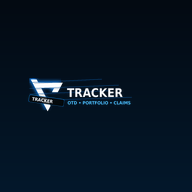
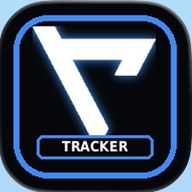
Add files via upload

diff --git a/app.js b/app.js
@@ -841,7 +841,7 @@ async function findDatesInApp(){
  const team=teamInput.value.trim();
  if(!player){alert('Enter the player name first.');return;}
  if(!season){alert('Enter the season or year first. Example: 2025-26 or 2025');return;}
- findDatesButton.disabled=true;
+ if(findDatesButton)findDatesButton.disabled=true;
  setAiStatus('Searching for official game/event dates… this can take a little bit.','loading');
  try{
    const response=await fetch('/api/find-dates',{
@@ -868,7 +868,7 @@ async function findDatesInApp(){
    setAiStatus(err.message,'error');
    alert(err.message);
  }finally{
-   findDatesButton.disabled=false;
+   if(findDatesButton)findDatesButton.disabled=false;
  }
 }
 function importBulkClaims(){
@@ -920,7 +920,7 @@ function closeStatsEditor(){
 }
 
 function openModal(id=null){
- const c=id?COLLECTION.find(x=>x.id===id):null;cardModal.classList.add('open');cardModal.setAttribute('aria-hidden','false');modalTitle.textContent=c?'Edit card':'Add card';cardId.value=c?.id||'';playerInput.value=c?.player||'';sportInput.value=c?.sport||'NFL';const type=c?.cardType||'otd';cardTypeCurrent.checked=type==='current';cardTypeOtd.checked=type!=='current';updateCardTypeUI();rarityInput.value=c?.rarity||'Rare';multiplierInput.value=c?.multiplier||rarityMultipliers[rarityInput.value]||1;marketValueInput.value=c?.marketValue||'';favoriteInput.checked=!!c?.favorite;notesInput.value=c?.notes||'';seasonInput.value=c?.season||'';teamInput.value=c?.team||'';dateOnlyPasteInput.value='';claimRows.innerHTML='';
+ const c=id?COLLECTION.find(x=>x.id===id):null;cardModal.classList.add('open');cardModal.setAttribute('aria-hidden','false');modalTitle.textContent=c?'Edit card':'Add card';cardId.value=c?.id||'';playerInput.value=c?.player||'';sportInput.value=c?.sport||'NFL';const type=c?.cardType||'otd';cardTypeCurrent.checked=type==='current';cardTypeOtd.checked=type!=='current';updateCardTypeUI();rarityInput.value=c?.rarity||'Rare';multiplierInput.value=c?.multiplier||rarityMultipliers[rarityInput.value]||1;marketValueInput.value=c?.marketValue||'';favoriteInput.checked=!!c?.favorite;notesInput.value=c?.notes||'';seasonInput.value=c?.season||'';teamInput.value=c?.team||'';if(dateOnlyPasteInput)dateOnlyPasteInput.value='';claimRows.innerHTML='';
  const multiplier=Number(c?.multiplier||multiplierInput.value||1);(c?.claims||[]).sort((a,b)=>a.date.localeCompare(b.date)).forEach(x=>addClaimEntry(x.date,Number(x.base||0),x));
  updateClaimEmptyState();archiveButton.style.display=c?'block':'none';archiveButton.textContent=c?.active===false?'Restore':'Archive';
 }
@@ -942,7 +942,7 @@ function collectClaimEntries(multiplier,cardType){
 }
 
 function exportData(){
-  const payload={version:44,collection:COLLECTION,claimState,raxBalance};
+  const payload={version:45,collection:COLLECTION,claimState,raxBalance};
   const blob=new Blob([JSON.stringify(payload,null,2)],{type:'application/json'});
   const url=URL.createObjectURL(blob);
   const a=document.createElement('a');
@@ -1027,7 +1027,7 @@ rarityInput.addEventListener('change',()=>{
  refreshClaimRowTotals();
 });
 cardForm.addEventListener('submit',e=>{e.preventDefault();try{const id=cardId.value||playerInput.value.toLowerCase().replace(/[^a-z0-9]+/g,'-');const existing=COLLECTION.find(x=>x.id===id);const multiplier=Number(multiplierInput.value);const cardType=activeCardType();const obj={id,player:playerInput.value.trim(),sport:sportInput.value,cardType,rarity:rarityInput.value,multiplier,booster:cardType==='current'?collectBoosterSettings():defaultBooster(),marketValue:Number(marketValueInput.value||0),favorite:favoriteInput.checked,notes:notesInput.value.trim(),season:seasonInput.value.trim(),team:teamInput.value.trim(),active:existing?.active!==false,claims:collectClaimEntries(multiplier,cardType)};if(existing)Object.assign(existing,obj);else COLLECTION.push(obj);saveCollection();closeModalFn();renderAll();showToast('Collection updated')}catch(err){alert(err.message)}});
-addClaimRowButton.addEventListener('click',()=>addClaimEntry());addFiveClaimsButton.addEventListener('click',()=>{for(let i=0;i<5;i++)addClaimEntry();});importClaimsButton.addEventListener('click',importBulkClaims);if(importDateOnlyButton)if(importDateOnlyButton)importDateOnlyButton.addEventListener('click',importDateOnlyList);if(findDatesButton)if(findDatesButton)if(findDatesButton)findDatesButton.addEventListener('click',findDatesInApp);if(copyDatePromptButton)if(copyDatePromptButton)copyDatePromptButton.addEventListener('click',copyDatePrompt);clearDatePasteButton.addEventListener('click',()=>{dateOnlyPasteInput.value='';});claimRows.addEventListener('click',e=>{const statsBtn=e.target.closest('.stats-row-button');if(statsBtn){openStatsEditor(statsBtn.closest('.claim-entry-row'));return;}const btn=e.target.closest('.remove-claim-button');if(btn){btn.closest('.claim-entry-row').remove();updateClaimEmptyState()}});
+addClaimRowButton.addEventListener('click',()=>addClaimEntry());addFiveClaimsButton.addEventListener('click',()=>{for(let i=0;i<5;i++)addClaimEntry();});importClaimsButton.addEventListener('click',importBulkClaims);if(importDateOnlyButton)importDateOnlyButton.addEventListener('click',importDateOnlyList);if(findDatesButton)findDatesButton.addEventListener('click',findDatesInApp);if(copyDatePromptButton)copyDatePromptButton.addEventListener('click',copyDatePrompt);if(clearDatePasteButton)clearDatePasteButton.addEventListener('click',()=>{if(dateOnlyPasteInput)dateOnlyPasteInput.value='';});claimRows.addEventListener('click',e=>{const statsBtn=e.target.closest('.stats-row-button');if(statsBtn){openStatsEditor(statsBtn.closest('.claim-entry-row'));return;}const btn=e.target.closest('.remove-claim-button');if(btn){btn.closest('.claim-entry-row').remove();updateClaimEmptyState()}});
 archiveButton.addEventListener('click',()=>{const c=COLLECTION.find(x=>x.id===cardId.value);if(c){c.active=c.active===false;saveCollection();closeModalFn();renderAll();showToast(c.active?'Card restored':'Card archived')}});
 exportButton.addEventListener('click',exportData);sidebarBackup.addEventListener('click',exportData);importInput.addEventListener('change',e=>{if(e.target.files[0])importData(e.target.files[0])});sidebarImport.addEventListener('change',e=>{if(e.target.files[0])importData(e.target.files[0])});editBalanceButton.addEventListener('click',()=>{balanceModal.classList.add('open');raxBalanceInput.value=raxBalance});closeBalanceModal.addEventListener('click',()=>balanceModal.classList.remove('open'));balanceModal.addEventListener('click',e=>{if(e.target===balanceModal)balanceModal.classList.remove('open')});balanceForm.addEventListener('submit',e=>{e.preventDefault();raxBalance=Number(raxBalanceInput.value||0);localStorage.setItem('realTrackerPublicRaxBalanceV1',raxBalance);scheduleCloudSave();balanceModal.classList.remove('open');renderAll();showToast('RAX balance updated')});
 

diff --git a/styles.css b/styles.css
@@ -1508,3 +1508,55 @@ html, body {
 @media(max-width:520px){
   .premium-claim-row,.otd-mode .premium-claim-row{grid-template-columns:1fr!important}
 }
+
+/* REAL TRACKER 4.5 hard click fix + clean date rows */
+.modal:not(.open){pointer-events:none!important}
+.modal.open{pointer-events:auto!important}
+.ai-date-section{display:none!important}
+.claim-column-labels.learning-labels{display:none!important}
+.clean-claim-editor .claim-help-steps{
+  display:grid;
+  grid-template-columns:repeat(3,minmax(0,1fr));
+  gap:10px;
+  margin:12px 0;
+}
+.clean-claim-editor .claim-help-steps div{
+  display:flex;align-items:center;gap:9px;
+  border:1px solid rgba(86,199,255,.17);
+  border-radius:14px;background:#03070d;padding:10px;
+}
+.clean-claim-editor .claim-help-steps strong{
+  width:24px;height:24px;display:grid;place-items:center;border-radius:999px;
+  background:linear-gradient(135deg,#138cff,#56c7ff);color:#001422;font-size:12px;
+}
+.clean-claim-editor .claim-help-steps span{color:#d8e9f7;font-size:12px;font-weight:850;line-height:1.25}
+.premium-claim-row,.otd-mode .premium-claim-row{
+  display:grid!important;
+  grid-template-columns:minmax(170px,1fr) minmax(120px,.7fr) minmax(130px,.75fr) minmax(104px,.58fr) 42px!important;
+  gap:10px!important;align-items:end!important;padding:14px!important;border-radius:18px!important;
+  background:radial-gradient(circle at 0 0,rgba(86,199,255,.08),transparent 35%),linear-gradient(180deg,rgba(7,19,31,.96),rgba(2,6,10,.99))!important;
+  border:1px solid rgba(86,199,255,.18)!important;
+}
+.otd-mode .premium-claim-row{grid-template-columns:minmax(170px,1fr) minmax(120px,.7fr) minmax(130px,.75fr) 42px!important}
+.claim-field{display:grid!important;gap:5px!important}
+.claim-field span{font-size:10px!important;color:#9eb7cc!important;text-transform:uppercase!important;letter-spacing:.08em!important;font-weight:950!important}
+.claim-field input{min-height:46px!important;font-size:15px!important;border-radius:14px!important;border:1px solid rgba(86,199,255,.17)!important;background:#02060b!important;color:#fff!important}
+.claim-total-output{background:#071722!important;border-color:rgba(86,199,255,.28)!important;color:#e7f8ff!important;font-weight:950!important}
+.otd-mode .stats-row-button{display:none!important}
+.clean-bulk-import{margin-top:14px!important;border:1px solid rgba(86,199,255,.14)!important;border-radius:16px!important;background:#03070d!important;overflow:hidden!important}
+.clean-bulk-import summary{cursor:pointer!important;color:#e7f8ff!important;font-size:13px!important;font-weight:950!important;padding:13px 14px!important;list-style:none!important}
+.clean-bulk-import summary::-webkit-details-marker{display:none!important}
+.clean-bulk-import summary::after{content:'＋';float:right;color:#56c7ff}
+.clean-bulk-import[open] summary::after{content:'−'}
+.clean-bulk-import label{display:grid!important;gap:8px!important;padding:0 14px 12px!important;color:#9eb7cc!important;font-size:12px!important}
+.clean-bulk-import textarea{border:1px solid rgba(86,199,255,.17)!important;border-radius:14px!important;background:#02060b!important;color:#fff!important;padding:12px!important}
+.clean-bulk-import .import-claims-button{margin:0 14px 14px!important}
+@media(max-width:860px){
+  .clean-claim-editor .claim-help-steps{grid-template-columns:1fr}
+  .premium-claim-row,.otd-mode .premium-claim-row{grid-template-columns:1fr 1fr!important}
+  .date-field{grid-column:1/-1}
+  .stats-row-button,.remove-claim-button{width:100%!important}
+}
+@media(max-width:520px){
+  .premium-claim-row,.otd-mode .premium-claim-row{grid-template-columns:1fr!important}
+}

diff --git a/index.html b/index.html
@@ -8,10 +8,12 @@
   <meta name="apple-mobile-web-app-status-bar-style" content="black-translucent" />
   <meta name="apple-mobile-web-app-title" content="REAL TRACKER" />
   <link rel="manifest" href="manifest.webmanifest" />
-  <link rel="icon" type="image/png" sizes="192x192" href="icon-192.png?v=44" />
-  <link rel="apple-touch-icon" href="icon-192.png?v=44" />
-      <link rel="stylesheet" href="styles.css" />
-  <title>REAL TRACKER 4.4</title>
+  <link rel="icon" type="image/x-icon" href="favicon.ico?v=45" />
+  <link rel="icon" type="image/png" sizes="32x32" href="favicon-32.png?v=45" />
+  <link rel="icon" type="image/png" sizes="192x192" href="icon-192.png?v=45" />
+  <link rel="apple-touch-icon" href="icon-192.png?v=45" />
+          <link rel="stylesheet" href="styles.css?v=45" />
+  <title>REAL TRACKER 4.5</title>
 </head>
 <body>
 <div id="appShell">
@@ -326,5 +328,5 @@ Sep 22, 140"></textarea>
 </div>
 
 <div class="modal" id="balanceModal" aria-hidden="true"><div class="modal-sheet compact-sheet"><div class="modal-handle"></div><div class="modal-head"><h2>RAX balance</h2><button id="closeBalanceModal" class="icon-button">×</button></div><form id="balanceForm"><label>Current available RAX<input id="raxBalanceInput" type="number" min="0" step="1" /></label><button type="submit" class="save-button full-button">Save balance</button></form></div></div>
-<div class="toast" id="toast"></div><div id="bootError" class="boot-error" hidden></div><script src="https://cdn.jsdelivr.net/npm/@supabase/supabase-js@2"></script><script src="app.js"></script>
+<div class="toast" id="toast"></div><div id="bootError" class="boot-error" hidden></div><script src="https://cdn.jsdelivr.net/npm/@supabase/supabase-js@2"></script><script src="app.js?v=45"></script>
 </body></html>

diff --git a/sw.js b/sw.js
@@ -1,1 +1,1 @@
-const CACHE='real-tracker-44-click-fix-clean-ui-v1';const ASSETS=['./','index.html','styles.css','app.js','collection.json','manifest.webmanifest','icon.svg','icon-192.png','icon-512.png','tracker-logo-wide.png'];self.addEventListener('install',e=>{self.skipWaiting();e.waitUntil(caches.open(CACHE).then(c=>c.addAll(ASSETS)))});self.addEventListener('activate',e=>{e.waitUntil(caches.keys().then(keys=>Promise.all(keys.filter(k=>k!==CACHE).map(k=>caches.delete(k)))).then(()=>self.clients.claim()))});self.addEventListener('fetch',e=>{if(e.request.mode==='navigate'){e.respondWith(fetch(e.request).catch(()=>caches.match('index.html')));return;}e.respondWith(fetch(e.request).then(r=>{const copy=r.clone();caches.open(CACHE).then(c=>c.put(e.request,copy));return r}).catch(()=>caches.match(e.request)))});
+const CACHE='real-tracker-45-click-logo-fix-v1';const ASSETS=['./','index.html','styles.css','app.js','collection.json','manifest.webmanifest','icon.svg','favicon.ico','favicon-32.png','icon-192.png','icon-512.png','tracker-logo-wide.png'];self.addEventListener('install',e=>{self.skipWaiting();e.waitUntil(caches.open(CACHE).then(c=>c.addAll(ASSETS)))});self.addEventListener('activate',e=>{e.waitUntil(caches.keys().then(keys=>Promise.all(keys.filter(k=>k!==CACHE).map(k=>caches.delete(k)))).then(()=>self.clients.claim()))});self.addEventListener('fetch',e=>{if(e.request.mode==='navigate'){e.respondWith(fetch(e.request).catch(()=>caches.match('index.html')));return;}e.respondWith(fetch(e.request).then(r=>{const copy=r.clone();caches.open(CACHE).then(c=>c.put(e.request,copy));return r}).catch(()=>caches.match(e.request)))});

diff --git a/README.md b/README.md
@@ -1,12 +1,13 @@
-# REAL TRACKER 4.4 Click Fix + Clean UI
+# REAL TRACKER 4.5 Click Fix + Logo Fix
 
 Fixes:
-- Fixes the “nothing is clickable” issue by guarding removed Date Finder JavaScript and stopping hidden modals from intercepting clicks.
-- Fully removes the Date Finder/Game Date Helper section.
-- Rebuilds the Dates & Base RAX section into a cleaner, simpler flow.
-- Uses the exact mobile app icon file (`icon-192.png`) for the browser tab icon.
-- Keeps Boosters only on Current Season cards.
+- Fixes the actual click-breaking JavaScript error from removing the date helper.
+- Removes the Date Finder/Game Date Helper UI completely.
+- Cache-busts app.js/styles.css so the broken cached version is not reused.
+- Rebuilds Dates & Base RAX into a cleaner entry flow.
+- Uses the uploaded home-screen logo screenshot as favicon.ico, favicon-32.png, icon-192.png, and icon-512.png.
+- Boosters remain Current Season only.
 - OTD cards ignore boosters.
 
 Upload all extracted files to GitHub root and commit to main.
-After Netlify publishes, hard refresh. For favicon changes, close/reopen the tab or clear site data because browsers cache favicons aggressively.
+After Netlify publishes, hard refresh. For the tab icon, close/reopen the tab or clear site data because favicon cache can stick.
